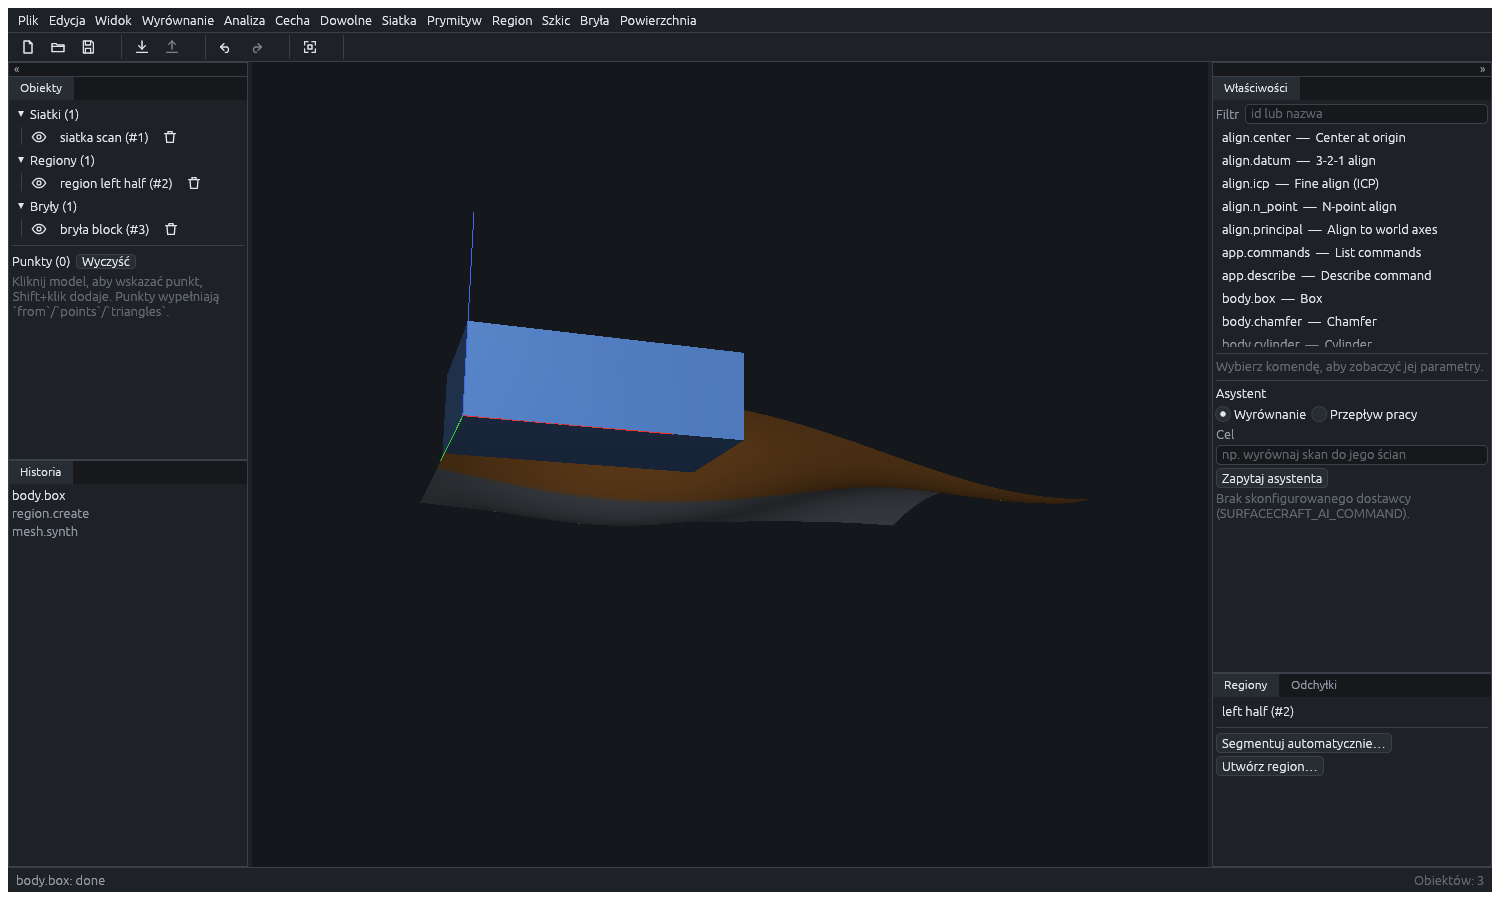
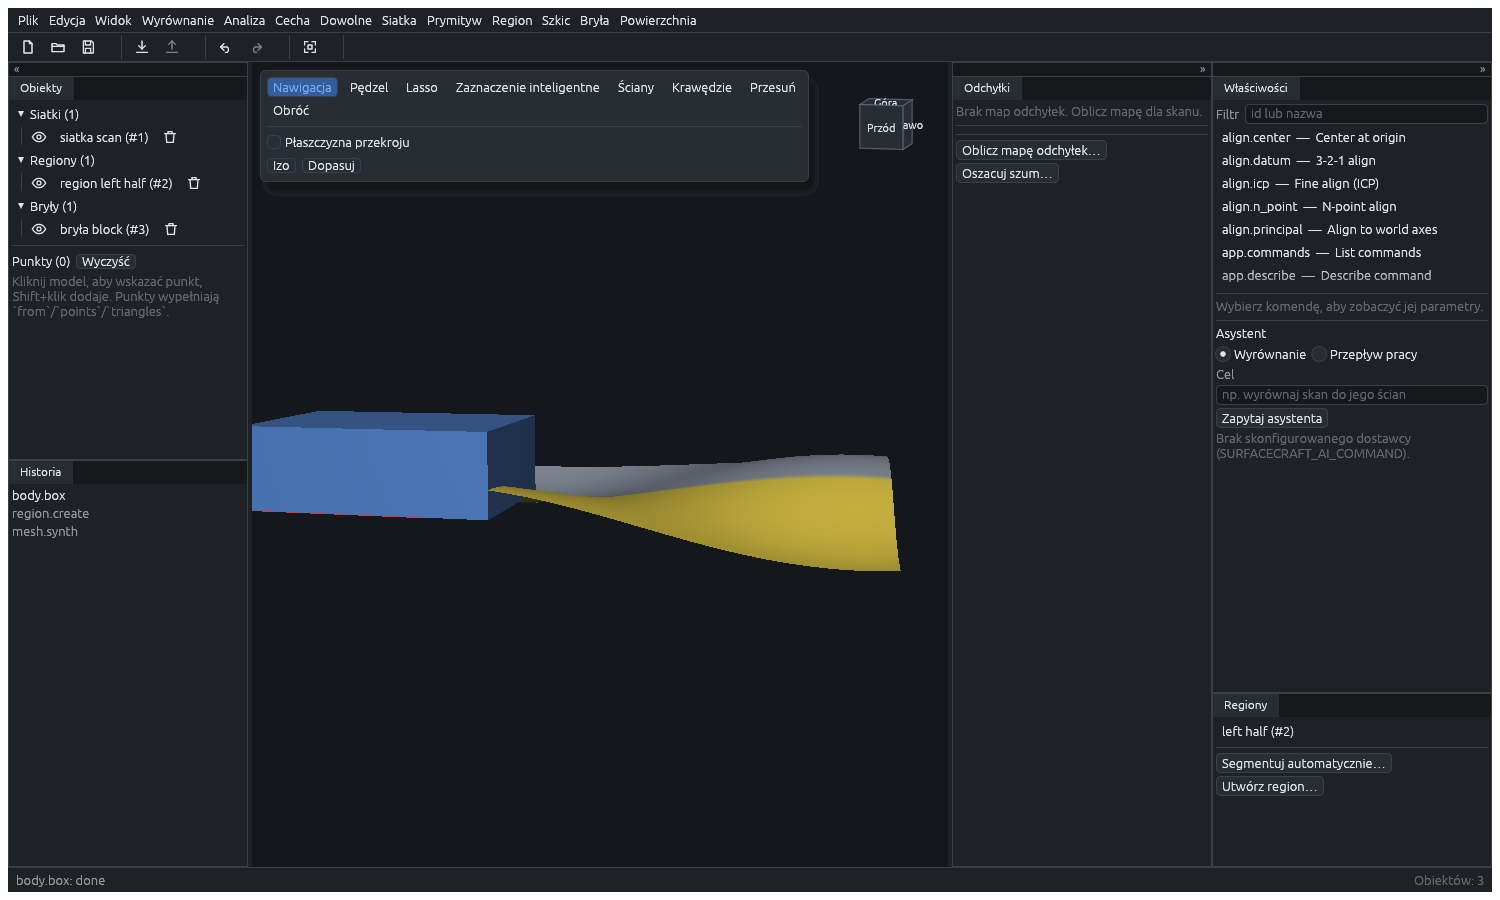
Integration 2026-11-09: p6 screenshots, status (P6 G1-G5), rustfmt

diff --git a/crates/ui-egui/tests/shell_screenshots.rs b/crates/ui-egui/tests/shell_screenshots.rs
@@ -29,7 +29,11 @@ fn run(app: &mut SurfaceCraftApp, id: &str, p: serde_json::Value) {
 fn scene(app: &mut SurfaceCraftApp) {
     run(app, "mesh.synth", json!({"shape": "wave", "resolution": 48, "name": "scan"}));
     let n = app.session.doc.meshes[0].mesh.triangle_count() as u32;
-    run(app, "region.create", json!({"mesh": "scan", "triangles": (0..n / 2).collect::<Vec<u32>>(), "name": "left half"}));
+    run(
+        app,
+        "region.create",
+        json!({"mesh": "scan", "triangles": (0..n / 2).collect::<Vec<u32>>(), "name": "left half"}),
+    );
     run(app, "body.box", json!({"size": [24.0, 16.0, 8.0], "name": "block"}));
     app.camera.fit(&app.session.doc.bbox());
     app.camera.orbit(70.0, -45.0);

diff --git a/crates/ui-egui/src/lib.rs b/crates/ui-egui/src/lib.rs
@@ -21,8 +21,8 @@ pub mod control;
 pub mod deviation_panel;
 pub mod dock;
 pub mod forms;
-pub mod history_panel;
 pub mod gizmo;
+pub mod history_panel;
 pub mod i18n;
 pub mod icons;
 pub mod sectionview;

diff --git a/docs/STATUS.md b/docs/STATUS.md
@@ -25,7 +25,7 @@ Etapy po MVP ([plan production-readiness](superpowers/plans/2026-11-09-productio
 | P5 | stabilna parametryka (trwałe nazewnictwo topologii) i komplet cech (loft, sweep, draft, mirror, split, wzór po ścieżce), auto-więzy, podpowiedzi osi/kąta | **zamknięty** (luki w długu technicznym) | [plan](superpowers/plans/2026-11-09-p5-parametric.md) |
 | P3 | model hybrydowy: prymitywy + płaty → jedna zamknięta bryła, STEP round-trip | **zamknięty** | [plan](superpowers/plans/2026-11-09-p3-hybrid.md) |
 | P4 | freeform organiczny: retopologia niestrukturalna (pola kierunków), łaty G1, sieć łat z krzywych cech | **zamknięty** (PR) | [plan](superpowers/plans/2026-11-09-p4-organic.md) |
-| P6 | ergonomia GUI zgodna z rodziną ArtCraft | **w toku: G1** (powłoka: `craft-ui` docking, tokeny motywu, ikony SVG, i18n en/pl, `cargo xtask ui-containers`); G2–G6 czekają | [plan](superpowers/plans/2026-11-09-p6-gui.md) |
+| P6 | ergonomia GUI zgodna z rodziną ArtCraft | **w toku: G1–G5 gotowe** (G1 powłoka: `craft-ui` docking, tokeny motywu, ikony SVG, i18n en/pl; G2 formularze komend, podgląd na żywo, edytor historii; G3 narzędzia viewportu: zaznaczanie, wybór ścian/krawędzi B-rep, gizmo, kostka widoku, przekrój; G4 panel odchyłek; G5 edytor szkicu; pomiary i zrzuty w tabeli Pomiary, luki w długu technicznym); G6 czeka | [plan](superpowers/plans/2026-11-09-p6-gui.md) |
 | P7 | dystrybucja: `cargo xtask dist` (binarki + `SHA256SUMS.txt`), metadane produktu, `wasm-opt`, [docs/distribution.md](distribution.md) | częściowo — kroki poza repo czekają na zgodę | [plan](superpowers/plans/2026-11-09-production-readiness.md) |
 
 ## Jak uruchomić
@@ -98,6 +98,7 @@ cargo run -p surfacecraft
 | P4: otwarta powierzchnia zawinięta o 240° (nie mapa wysokości; `surface.fit` i `quad.create` odmawiają), skan σ = 0,025 | układ z pola: 80 ścian (78 quadów, 1 % nieregularnych) → 318 łat; max odchyłka 0,102 mm (99. percentyl niezależnie 0,077); skok normalnej max 0,29°, średnio 0,047°; 2 % punktów poza brzegiem układu (nie liczone) | `gate_p4_open_wrapped_patch` |
 | P4: obudowa z ostrymi krawędziami (60×40×24, ściany wybrzuszone do 2,5 mm), skan σ = 0,025, `surface.from_curves` | 6 łat stopnia 5 na 12 wspólnych krzywych cech, bryła zamknięta; max odchyłka 0,103 mm (rms 0,026); V 67316,73 vs dokładna 67326,83 (0,015 %) | `gate_p4_feature_curve_housing` |
 | P4: lokalny organiczny skan auta (2,5 mln trójkątów; 4 regiony — okolice skrajnych wierzchołków, promień 2,5 % i 4 % przekątnej, 12–38 tys. trójkątów; dane poza repo, tylko wartości zbiorcze) | układ z pola 434–482 quady, 3–10 % nieregularnych, χ = 1 (dysk), 0 odwróconych, retopo 0,6–1,8 s; łaty: mediana odległości wierzchołków skanu od łat 0,008–0,03 mm; max (bez punktów poza brzegiem układu, 3–7 %) 0,125 / 0,375 / 0,245 / 8,1 mm — 1 z 4 w progu 0,2; skok normalnej średnio 0,04–0,5°, w 2 regionach pojedyncze krawędzie z odwróconą normalną (179°) przy brzegu regionu | `local_organic_region_retopo` (`--ignored`, `SURFACECRAFT_LOCAL_CORPUS`) |
+| P6: integracja G2–G5 + poprawki (#29 #31 #32 #33 #34 #35 #36; Windows, RTX 5070, profil `ci`) | `cargo fmt --check` OK; `cargo xtask quick --tests` (ui-egui, engine, kernel, geom, fit, surfacecraft: statyczne kontrole, ui-containers, clippy `-D warnings`, testy) OK; `cargo xtask wasm` OK; testy GPU (`SURFACECRAFT_GPU_TESTS=1`, `--lib`) 30/30, w tym 3 `viewport`; `fps_with_a_large_scan`, 10 M trójkątów: 3397 klatek/s offscreen, 1,63 s przygotowania LOD, 1 upload; `cargo xtask web` OK (bundle 65 MB bez `wasm-opt`), serwer lokalny: index, `.wasm`, `.js` — HTTP 200. Zrzuty: `docs/screenshots/p6-g1-*.png` (powłoka), `p6-deviation.png`, `p6-sketch.png`, `p6-form-extrude.png`, `p6-gizmo-viewcube.png`, `p6-lasso.png`, `p6-section.png`. Dock: Deviation we własnej kolumnie prawego docka (statystyki i histogram bez przewijania w oknie 1500×900) | `write_shell_screenshots` (`SURFACECRAFT_SHOTS=<katalog>`), `docs/integration.md` |
 | P4: kernel — sieć łat Béziera (`nurbs::sheet_from_bezier_network`) | sześcian z 6 łat bikubicznych: 12 wspólnych krawędzi, powłoka zamknięta = bryła, V = 1000 (1e-6); łaty o niezgodnym brzegu odrzucone | `kernel::nurbs::network_tests` |
 
 ## Decyzje buildera (z uzasadnieniem)
@@ -181,6 +182,7 @@ Szczegóły w planach milestone'ów.
 - `region.auto_segment` rozbija płaskie pierścienie (wałek z otworem: dwie płaszczyzny → ~85 kawałków po 30–280 trójkątów) —
   w teście P3 płaszczyzny wybrane geometrycznie (`region.create`); do poprawy w segmentacji (P1/P4).
 - P6/G1: `craft-ui` przypięty do `acf6f79` (ostatni rev bez forka egui). Nowsze rewizje (`fonts`, `localized`, IME) wymagają `[patch.crates-io]` na `storytold/egui` i `storytold/winit` (tak robi CADCraft) — zmiana stosu UI całej aplikacji, osobna decyzja; do tego czasu czcionki to domyślne `egui` (`default_fonts`), bez `craft_ui::fonts`. `craft-dialogs` (rev `1a11a48`) nie zależy od `craft-ui`. `rfd` zostaje tylko w buildzie web (wybór plików w przeglądarce; desktop używa `craft-dialogs`). Brak własnego paska tytułu (`craft-window` tylko decyduje o ramce; przy `Frame::App` zostaje ramka systemu). Nazwy grup menu komend i etykiety komend pochodzą z silnika (po angielsku; grupy mają klucze `group.*`, etykiety komend jeszcze nie). Panel Właściwości nadal z edytorem JSON (G2).
+- P6/G2–G5 (zintegrowane w `integration/2026-11-09`): brak przeciągania punktów w szkicu myszą (punkty przesuwa się wymiarami / `sketch.edit_constraint`); przekrój płaszczyzną osiową bez „czapki” (widać tylko kontur przekroju, nie wypełnienie); pędzel i lasso sprawdzają wszystkie trójkąty (brute force; wolne od ~1 mln trójkątów); podgląd na żywo (`Session::preview`) wyłączony dla ciężkich poleceń wg statycznej listy (bez wykrywania po czasie); brak znacznika cofania (roll-back) w historii; nazwy parametrów formularzy po angielsku (z JSON Schema), tłumaczone są tylko etykiety UI; przyciski paska narzędzi i szkicu są tekstowe (brak ikon SVG); pływający pasek narzędzi widoku i panel szkicu zasłaniają lewy górny róg viewportu (przy wąskim viewporcie także kostkę widoku); panel Właściwości: lista komend zajmuje górę, formularz wymaga przewijania. Tryb szkicu ma pierwszeństwo przed narzędziami viewportu (Esc anuluje najbardziej wewnętrzny gest, Alt+przeciąganie obraca kamerę wszędzie); w trybie szkicu nie ma kostki widoku ani paska narzędzi.
 - Kanał sterowania zapisuje token w pliku tymczasowym (dostęp lokalnego użytkownika); jedna instancja aplikacji naraz.
 
 ## Luki / ryzyka
